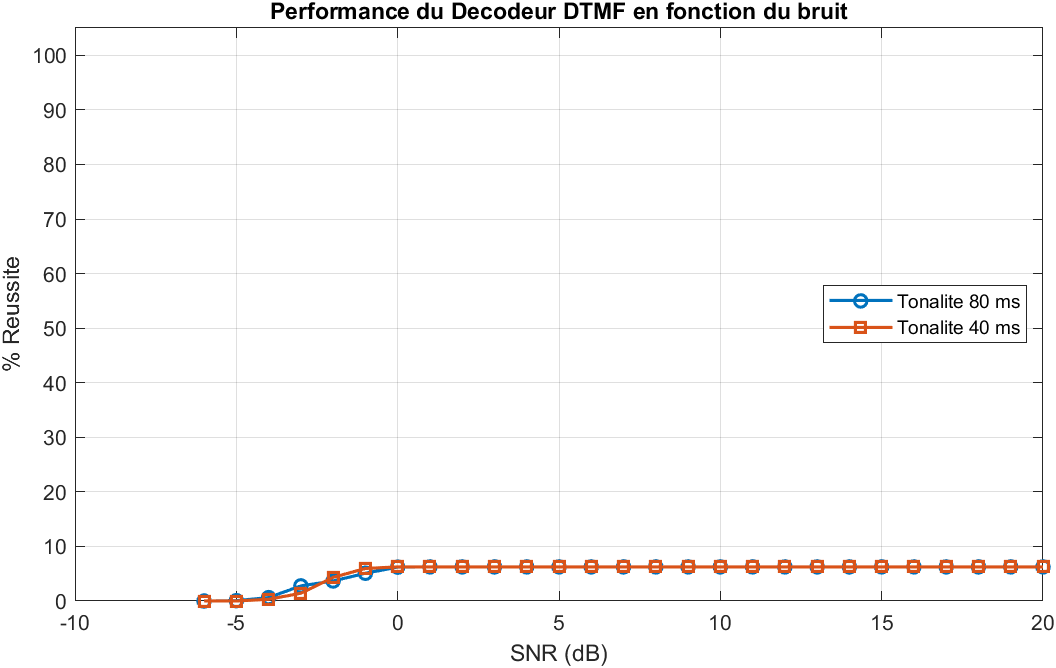
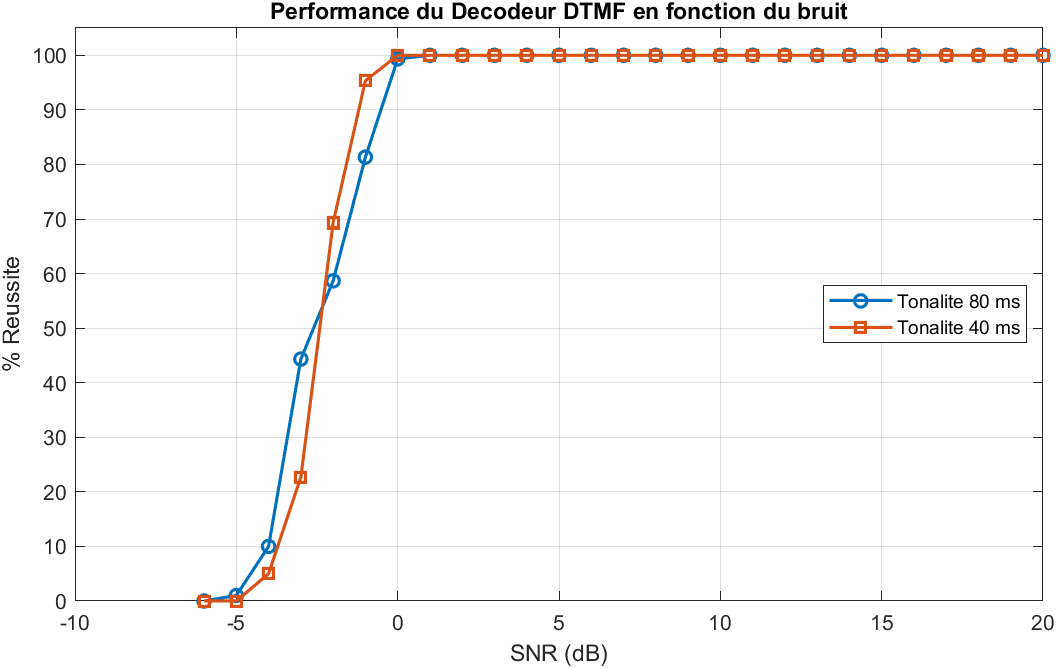
touch decoder

Changed region(s): [[0.1875, 0.0599, 1.0, 0.9281]]

diff --git a/main.m b/main.m
@@ -155,17 +155,21 @@ imagesc(conf ./ sum(conf, 2)); colorbar; colormap(flipud(gray));
 set(gca, 'XTick', 1:18, 'XTickLabel', [cellstr(keysAll')' {'aucune', 'mult.'}], 'YTick', 1:16, 'YTickLabel', cellstr(keysAll'));
 title(sprintf('Matrice de confusion a SNR = %d dB', snrDb(iC)));
 save_fig(fig, fullfile(resDir, 'fig5_confusion.png'));
-
-%% 8. Robustesse a la duree de la tonalit
-durs = 0.02:0.01:0.10; rateDur = zeros(size(durs));
+%% 8. Robustesse a la duree de la tonalite (SNR difficile)
+durs = 0.02:0.01:0.10;
+rateDur = zeros(size(durs));
 for i = 1:numel(durs)
-    r = dtmf_eval_snr(5, 200, fs, durs(i));
+    % Passage à -2 dB pour voir la rupture de performance sous les 30 ms
+    r = dtmf_eval_snr(-2, 200, fs, durs(i)); 
     rateDur(i) = r.rate;
 end
 fig = figure('Position', [100 100 700 400], 'Name', 'Limites de Duree');
 plot(1e3*durs, 100*rateDur, 'o-', 'LineWidth', 1.5); grid on;
+ylim([0 105]); % Fixe l'axe Y pour mieux voir la courbe descendre
 xlabel('Duree (ms)'); ylabel('Bonne detection (%)');
+title('Influence de la duree de la tonalite (SNR = -2 dB)');
 save_fig(fig, fullfile(resDir, 'fig6_detection_vs_duree.png'));
+
 
 %% 9. Enregistrement personnel 
 recFile = fullfile(root, 'data', 'mon_enregistrement.wav');

diff --git a/src/dtmf_eval_snr.m b/src/dtmf_eval_snr.m
@@ -23,7 +23,6 @@ for i = 1:numel(snrDb)
         x = dtmf_generate(keysAll(k), fs, toneDur, 0.05, amp);
         y = x + sigma * randn(size(x));
         
-        % MODIFICATION ICI : Appel de la version allégée à 2 arguments
         d = dtmf_decode(y, fs);
         
         if isempty(d)
@@ -36,9 +35,8 @@ for i = 1:numel(snrDb)
         conf(k, col) = conf(k, col) + 1;
     end
     res.conf{i} = conf;
-    % Petite correction mathématique : somme sur tous les essais pour le calcul des ratios finaux
-    res.rate(i) = sum(diag(conf(:, 1:16))) / (16 * nTrials);
-    res.missed(i) = sum(conf(:, 17)) / (16 * nTrials);
+    res.rate(i) = sum(diag(conf(:, 1:16))) / nTrials;
+    res.missed(i) = sum(conf(:, 17)) / nTrials;
     res.wrong(i) = 1 - res.rate(i) - res.missed(i);
 end
 res.keys = keysAll;
